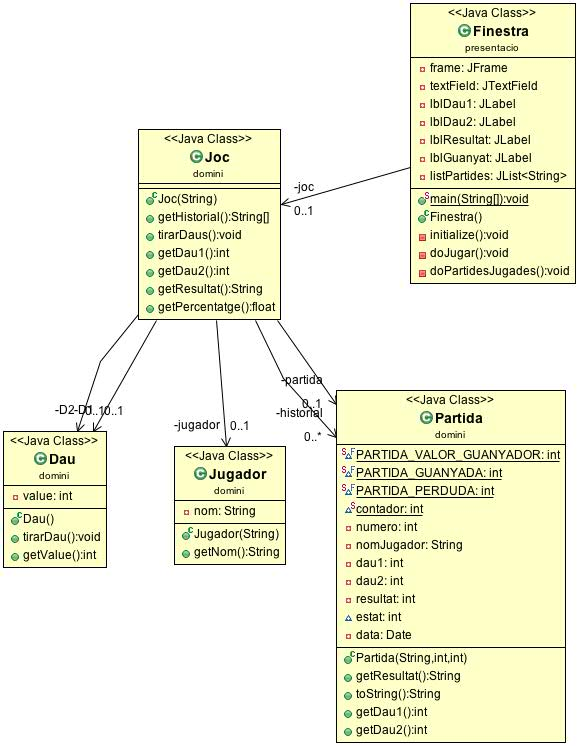
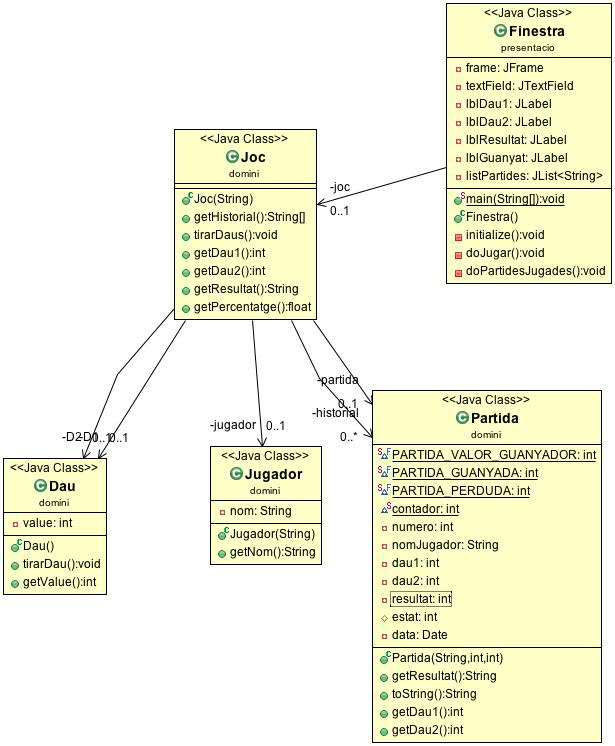
detalls

Changed region(s): [[0.0, 0.1542, 0.9948, 1.0], [0.6218, 0.0, 1.0, 0.4008]]

diff --git a/ESI - Practica5Grup6/src/domini/Partida.java b/ESI - Practica5Grup6/src/domini/Partida.java
@@ -15,7 +15,7 @@ public class Partida {
 	private String nomJugador;
 	private int dau1, dau2;
 	private int resultat;
-	int estat;
+	protected int estat;
 	private Date data;
 
 	public Partida(String nomJugador, int d1, int d2) {

diff --git a/ESI - Practica5Grup6/src/presentacio/Finestra.java b/ESI - Practica5Grup6/src/presentacio/Finestra.java
@@ -11,7 +11,6 @@ import javax.swing.JTextField;
 import javax.swing.SpringLayout;
 import javax.swing.SwingConstants;
 
-import domini.Partida;
 import domini.Joc;
 
 import javax.swing.JLabel;
